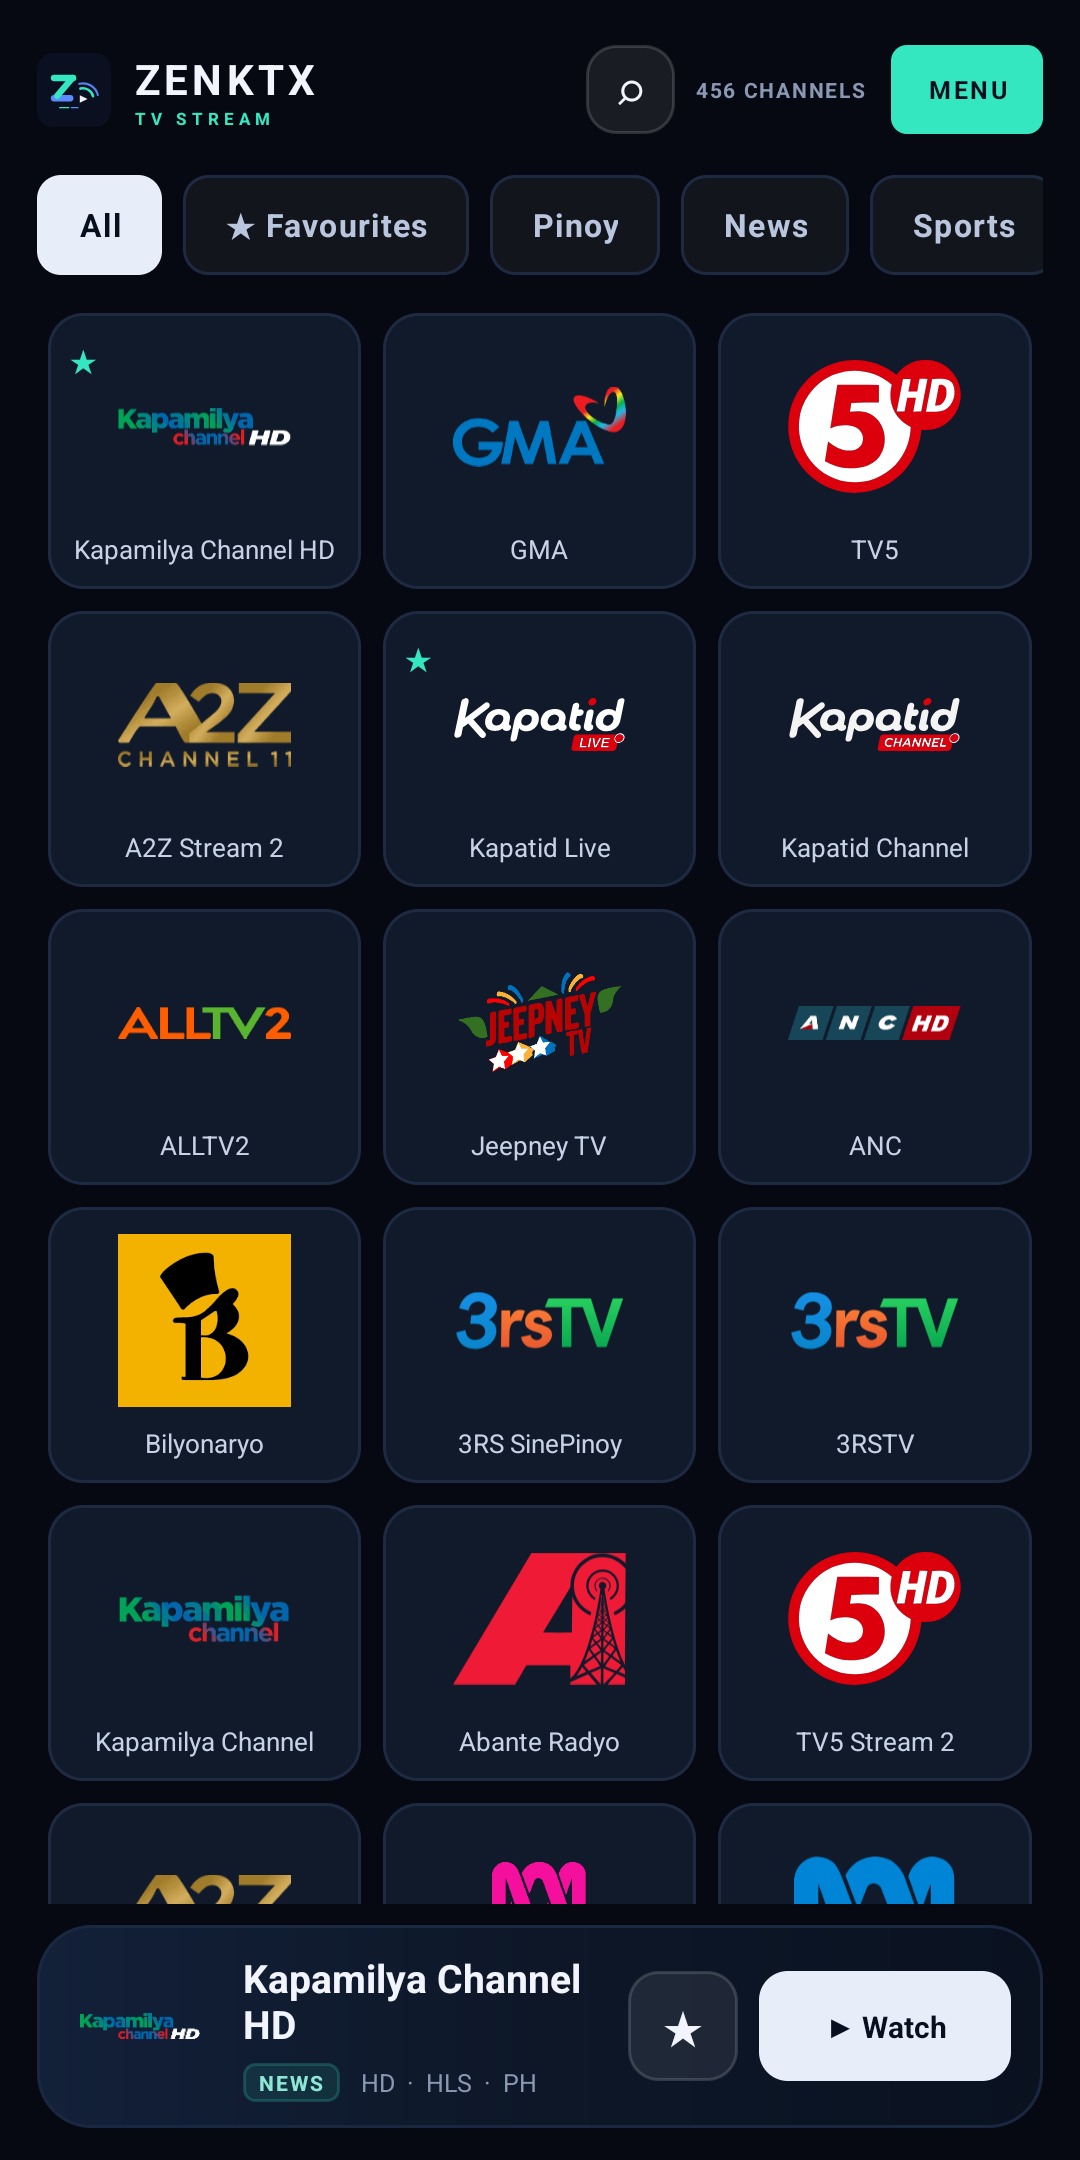
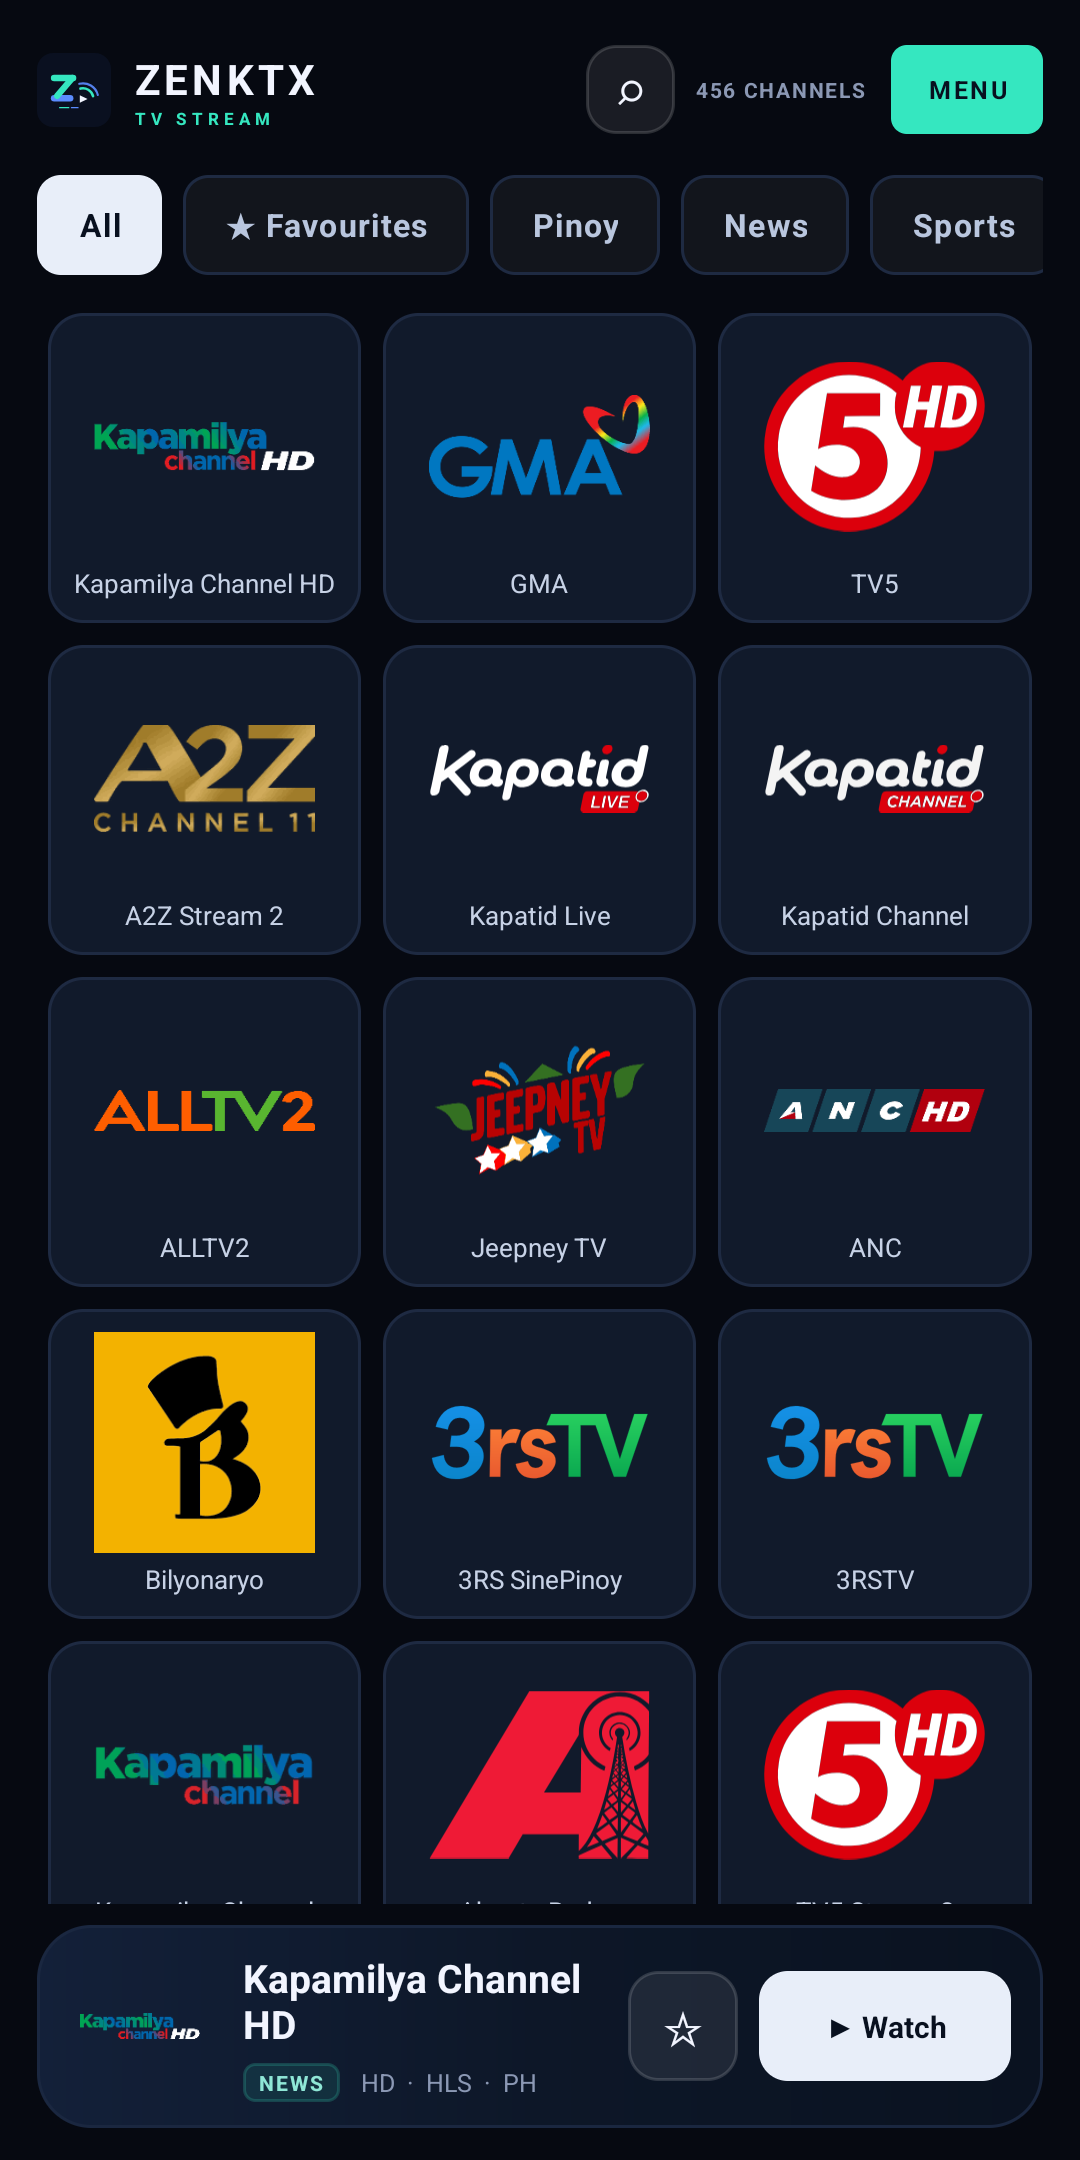
Play a channel with one click and give the phone the whole screen
A single click used to select a tile and wait for a double click, which is why
a fresh Windows launch looked like a guide that would not play; the phone now
follows the same one-click rule, hides the status and navigation bars, and
draws an 84dp logo in a 118dp tile. The site's changelog had lost 1.3.6 and the
release-notes link, and the footer had lost its wordmark, so both are back. The
admin table header was pinned 57px down inside its own scroll pane and slid
over the first channel; it sticks to the top of that pane now.

diff --git a/docs/index.html b/docs/index.html
@@ -431,7 +431,7 @@
         </figure>
         <figure class="phone">
           <img src="assets/screens/mobile-guide.png" alt="ZENKTX Android mobile guide with three-column channel tiles" loading="lazy" />
-          <figcaption>Android mobile — three-column tiles, tap to pick, double tap to play</figcaption>
+          <figcaption>Android mobile — three-column tiles, one tap to play</figcaption>
         </figure>
         <figure>
           <img src="assets/screens/tv-guide.png" alt="ZENKTX Android TV guide with category chips and a six-column grid" loading="lazy" />
@@ -617,7 +617,7 @@
           <h3>1.5.0 <span class="tagx">latest</span></h3>
           <div class="meta">6 November 2026 · Android TV · Android mobile · Windows</div>
           <ul>
-            <li><b>The phone guide behaves like the desktop one.</b> A tile is picked with one tap and played with a double tap, the grid is three across with full-size logos instead of two rows of postage stamps, and the header has a search button that filters the whole catalogue.</li>
+            <li><b>One click starts a channel on every build.</b> On Windows a tile used to select first and wait for a double click, which read as a guide that would not play; a single click now opens the player, and the phone follows the same rule. The phone grid is three across with larger logos instead of two rows of postage stamps, it runs without a status or navigation bar, and the header has a search button that filters the whole catalogue.</li>
             <li><b>The player has a real control bar.</b> The star, the volume wheel, the running time, a quality switch with <i>Auto</i> and a close button — the same row the Windows build has — replacing the bare LIVE badge. Close is the ✕ in the corner, and Esc closes it from a keyboard.</li>
             <li><b>Channels are re-checked every ten minutes.</b> Every launch already pulled a fresh list; a session left open now re-reads the catalogue and the publisher's feed on a timer, so a link that dies while you are watching is replaced instead of failing for ever.</li>
             <li><b>Playlists can be fixed.</b> A source saved with the wrong stream URL or logo is edited in place, and the truncated “menu” rows are gone: no GitHub sync, no hidden-channel list, no logo edits, and no right-click sheet on the tiles.</li>
@@ -660,7 +660,16 @@
             <li><b>The address decides the format.</b> The guide's <code>hls</code> / <code>mpd</code> flag goes stale when a provider swaps a channel between the two, and an <code>.mpd</code> handed to the HLS parser fails before it requests a single segment. The container is read from the URL now.</li>
             <li><b>An expired link says so.</b> 403, 404, 410 and 451 used to read “refused the request (HTTP 410)”; they now explain that the provider rotates addresses and the channel usually comes back.</li>
           </ul>
+        </article><article class="entry">
+          <h3>1.3.6</h3>
+          <div class="meta">4 November 2026 · Android TV · Android mobile · Windows unchanged on 1.3.3</div>
+          <ul>
+            <li><b>The strip and the player chip use the same fallback as the tiles.</b> 1.3.5 fixed the grid but left the empty play glyph in the detail strip underneath it and in the chip that appears over playback. Both show the channel's initials on its colour now, so a channel without a working logo looks the same everywhere.</li>
+          </ul>
         </article>
+
+        <p class="log-more">Older release notes are kept on the
+          <a href="https://github.com/ppoykulot-lgtm/zenktx-tv/releases">GitHub releases page</a>.</p>
       </div>
     </div>
   </section>
@@ -669,7 +678,12 @@
   <footer>
     <div class="wrap">
       <div class="foot">
-        <div>Remote-first live TV for Android TV, Android and Windows.</div>
+        <div>
+          <div class="brand" style="margin-bottom:8px">
+            <b style="font-size:14px">ZENKTX TV STREAM</b>
+          </div>
+          <div>Remote-first live TV for Android TV, Android and Windows.</div>
+        </div>
         <nav class="foot-links">
           <a href="#downloads">Downloads</a>
           <a href="#install">Install</a>

diff --git a/android/app/src/main/java/ph/zenktx/tv/MainActivity.kt b/android/app/src/main/java/ph/zenktx/tv/MainActivity.kt
@@ -140,7 +140,6 @@ class MainActivity : Activity() {
             onOpen = { openPlayer(it) },
             onFocused = { showDetail(it) },
             isFavourite = { library.isFavourite(it) },
-            doubleTapToPlay = resources.getBoolean(R.bool.double_tap_play),
         )
         val columns = resources.getInteger(R.integer.grid_columns)
         binding.grid.layoutManager = GridLayoutManager(this, columns)
@@ -168,9 +167,11 @@ class MainActivity : Activity() {
     // ---- full view --------------------------------------------------------
 
     /**
-     * Edge to edge: the guide runs behind the status and navigation bars and
-     * pads itself by their height instead of leaving two dead strips at the top
-     * and bottom of the screen.
+     * Full view: the guide owns the whole display. The clock strip at the top and
+     * the button strip at the bottom are hidden rather than merely drawn behind,
+     * so the phone shows nothing but the app. Only a display cutout still takes
+     * its notch out of the padding. A swipe from an edge brings the bars back for
+     * a moment, and [onWindowFocusChanged] hides them again.
      */
     private fun applyFullView() {
         if (!resources.getBoolean(R.bool.full_view)) return
@@ -180,21 +181,44 @@ class MainActivity : Activity() {
         window.statusBarColor = Color.TRANSPARENT
         @Suppress("DEPRECATION")
         window.navigationBarColor = Color.TRANSPARENT
-        WindowInsetsControllerCompat(window, binding.root).isAppearanceLightStatusBars = false
+
+        val hideBars = resources.getBoolean(R.bool.hide_system_bars)
+        WindowInsetsControllerCompat(window, binding.root).apply {
+            isAppearanceLightStatusBars = false
+            isAppearanceLightNavigationBars = false
+            if (hideBars) {
+                systemBarsBehavior =
+                    WindowInsetsControllerCompat.BEHAVIOR_SHOW_TRANSIENT_BARS_BY_SWIPE
+                hide(WindowInsetsCompat.Type.systemBars())
+            }
+        }
 
         val baseTop = binding.content.paddingTop
         val baseBottom = binding.content.paddingBottom
         ViewCompat.setOnApplyWindowInsetsListener(binding.content) { view, insets ->
             val bars = insets.getInsets(WindowInsetsCompat.Type.systemBars())
+            val cut = insets.getInsets(WindowInsetsCompat.Type.displayCutout())
+            // While the bars are hidden their inset is zero, so the guide starts
+            // at the top of the screen instead of below an empty strip.
             view.setPadding(
                 view.paddingLeft,
-                bars.top + baseTop,
+                (if (hideBars) 0 else bars.top) + cut.top + baseTop,
                 view.paddingRight,
-                bars.bottom + baseBottom,
+                (if (hideBars) 0 else bars.bottom) + cut.bottom + baseBottom,
             )
             insets
         }
         binding.content.requestApplyInsets()
+    }
+
+    /** Bars come back after a swipe or a dialog; hide them again on focus. */
+    override fun onWindowFocusChanged(hasFocus: Boolean) {
+        super.onWindowFocusChanged(hasFocus)
+        if (!hasFocus || !::binding.isInitialized) return
+        if (!resources.getBoolean(R.bool.full_view)) return
+        if (!resources.getBoolean(R.bool.hide_system_bars)) return
+        WindowInsetsControllerCompat(window, binding.root)
+            .hide(WindowInsetsCompat.Type.systemBars())
     }
 
     // ---- welcome ----------------------------------------------------------

diff --git a/docs/admin.html b/docs/admin.html
@@ -43,9 +43,13 @@
   .note code { color: var(--mint); }
   table { width: 100%; border-collapse: collapse; font-size: 13px; }
   th, td { text-align: left; padding: 7px 8px; border-bottom: 1px solid #141f33; vertical-align: middle; }
+  /* The header row sticks to the top of the table's own scroll pane. Pinned to
+     the page instead, it slid down over the first channel: a horizontal
+     overflow makes .tablewrap the scroll container, so top: 57px pushed the row
+     57px down from its own place. */
   th {
     color: var(--muted); font-weight: 600; font-size: 11px; letter-spacing: .08em;
-    text-transform: uppercase; position: sticky; top: var(--head, 57px); background: var(--bg);
+    text-transform: uppercase; position: sticky; top: 0; background: #0a1120;
     z-index: 2; box-shadow: inset 0 -1px 0 #141f33;
   }
   tr.off td { opacity: .45; }
@@ -74,7 +78,13 @@
   .check label { margin: 0; text-transform: none; letter-spacing: 0; font-size: 13px; color: var(--text); }
   .stopcard { border: 1px solid rgba(255,107,107,.35); background: rgba(255,107,107,.06); border-radius: 10px; padding: 10px 12px; margin-top: 12px; color: #ffc9c9; font-size: 12.5px; }
   .row { display: flex; gap: 8px; justify-content: flex-end; margin-top: 16px; }
-  .tablewrap { overflow-x: auto; }
+  /* One scroll pane for the whole table, so the header stays put while the
+     channel rows scroll under it. 36 rows visible at a time beats a page that
+     scrolls the header off the screen. */
+  .tablewrap {
+    overflow: auto; max-height: calc(100vh - 172px);
+    border: 1px solid var(--line); border-radius: 12px; background: #0a1120;
+  }
   /* The page is public, so the catalogue waits behind a passphrase. */
   body.locked { overflow: hidden; }
   body.locked header, body.locked main { filter: blur(3px); pointer-events: none; user-select: none; }
@@ -739,15 +749,6 @@ $('statusBtn').addEventListener('click', openStatus);
 $('msCancel').addEventListener('click', () => $('dlgStatus').close());
 $('msPublish').addEventListener('click', publishStatus);
 $('cancelSettings').addEventListener('click', () => $('dlgSettings').close());
-
-// The header wraps to two rows on a narrow window; the table headings used a
-// hard-coded 57px offset and slid over the first rows.
-function measureHeader() {
-  const header = document.querySelector('header');
-  if (header) document.documentElement.style.setProperty('--head', `${header.offsetHeight}px`);
-}
-window.addEventListener('resize', measureHeader);
-measureHeader();
 
 $('search').addEventListener('input', render);
 $('all').addEventListener('change', (event) => {

diff --git a/android/app/src/main/java/ph/zenktx/tv/ui/ChannelGridAdapter.kt b/android/app/src/main/java/ph/zenktx/tv/ui/ChannelGridAdapter.kt
@@ -1,8 +1,6 @@
 package ph.zenktx.tv.ui
 
-import android.view.GestureDetector
 import android.view.LayoutInflater
-import android.view.MotionEvent
 import android.view.View
 import android.view.ViewGroup
 import androidx.recyclerview.widget.DiffUtil
@@ -13,16 +11,14 @@ import ph.zenktx.tv.databinding.ItemGridChannelBinding
 /**
  * EPG-style channel grid. Focus drives the detail strip below the grid.
  *
- * On a phone a tap picks the channel and a double tap starts it, which is what
- * the Windows build does with a double click; on the TV a single click with the
- * D-pad still opens the player, because a remote has no double tap.
+ * One click is all it takes on either build: a tap opens the player on a phone,
+ * a D-pad click on the TV. Tapping twice to watch was a step nobody asked for.
  */
 class ChannelGridAdapter(
     private val onSelect: (Channel) -> Unit,
     private val onOpen: (Channel) -> Unit,
     private val onFocused: (Channel) -> Unit,
     private val isFavourite: (String) -> Boolean,
-    private val doubleTapToPlay: Boolean,
 ) : RecyclerView.Adapter<ChannelGridAdapter.TileVH>() {
 
     private var channels: List<Channel> = emptyList()
@@ -53,26 +49,9 @@ class ChannelGridAdapter(
             binding.tileStar.visibility =
                 if (isFavourite(channel.key)) View.VISIBLE else View.GONE
 
-            if (doubleTapToPlay) {
-                // A tap selects (the detail sheet fills in), a double tap plays.
-                val detector = GestureDetector(
-                    binding.root.context,
-                    object : GestureDetector.SimpleOnGestureListener() {
-                        override fun onSingleTapConfirmed(e: MotionEvent): Boolean {
-                            onSelect(channel)
-                            return true
-                        }
-
-                        override fun onDoubleTap(e: MotionEvent): Boolean {
-                            onOpen(channel)
-                            return true
-                        }
-                    },
-                )
-                binding.root.setOnClickListener(null)
-                binding.root.setOnTouchListener { _, event -> detector.onTouchEvent(event) }
-            } else {
-                binding.root.setOnClickListener { onOpen(channel) }
+            binding.root.setOnClickListener {
+                onSelect(channel)
+                onOpen(channel)
             }
             Ui.attachFocusEffect(binding.root) { onFocused(channel) }
         }

diff --git a/windows/renderer/app.js b/windows/renderer/app.js
@@ -590,8 +590,9 @@ function renderGrid() {
       tile.appendChild(noLogo);
     }
 
-    tile.addEventListener('click', () => select(channel));
-    tile.addEventListener('dblclick', () => play(channel));
+    // One click plays. Selecting a channel first and then needing a second click
+    // on Watch is how a working guide came to look broken on the first launch.
+    tile.addEventListener('click', () => play(channel));
 
     $('grid').appendChild(tile);
   });
@@ -692,6 +693,9 @@ function cleanupPlayer() {
 }
 
 function play(channel) {
+  // The detail strip follows the click, so closing the player lands on the
+  // channel that was just watched.
+  select(channel);
   const inGuide = state.visible.some((c) => c.key === channel.key);
   state.queue = inGuide ? state.visible.slice() : [channel];
   state.index = Math.max(0, state.queue.findIndex((c) => c.key === channel.key));
